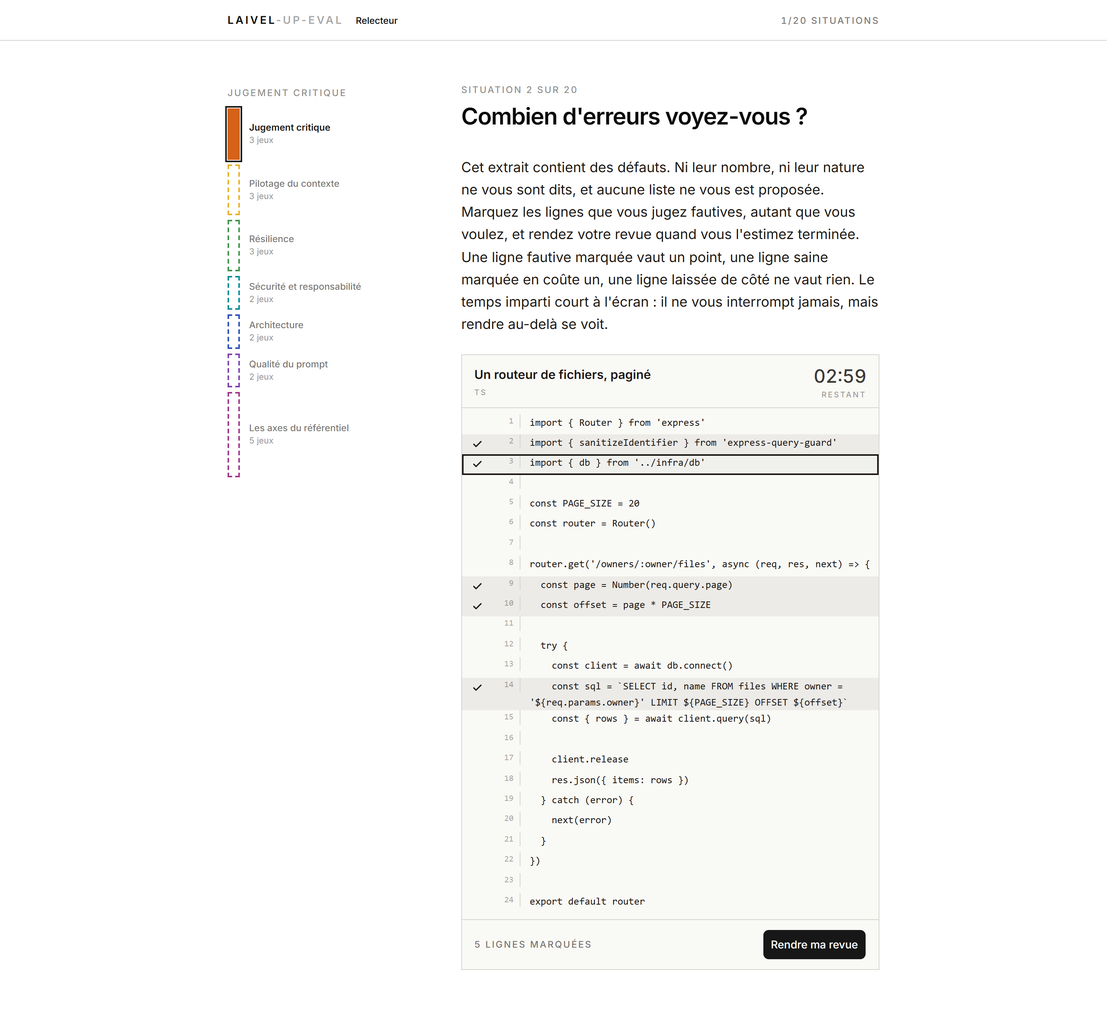
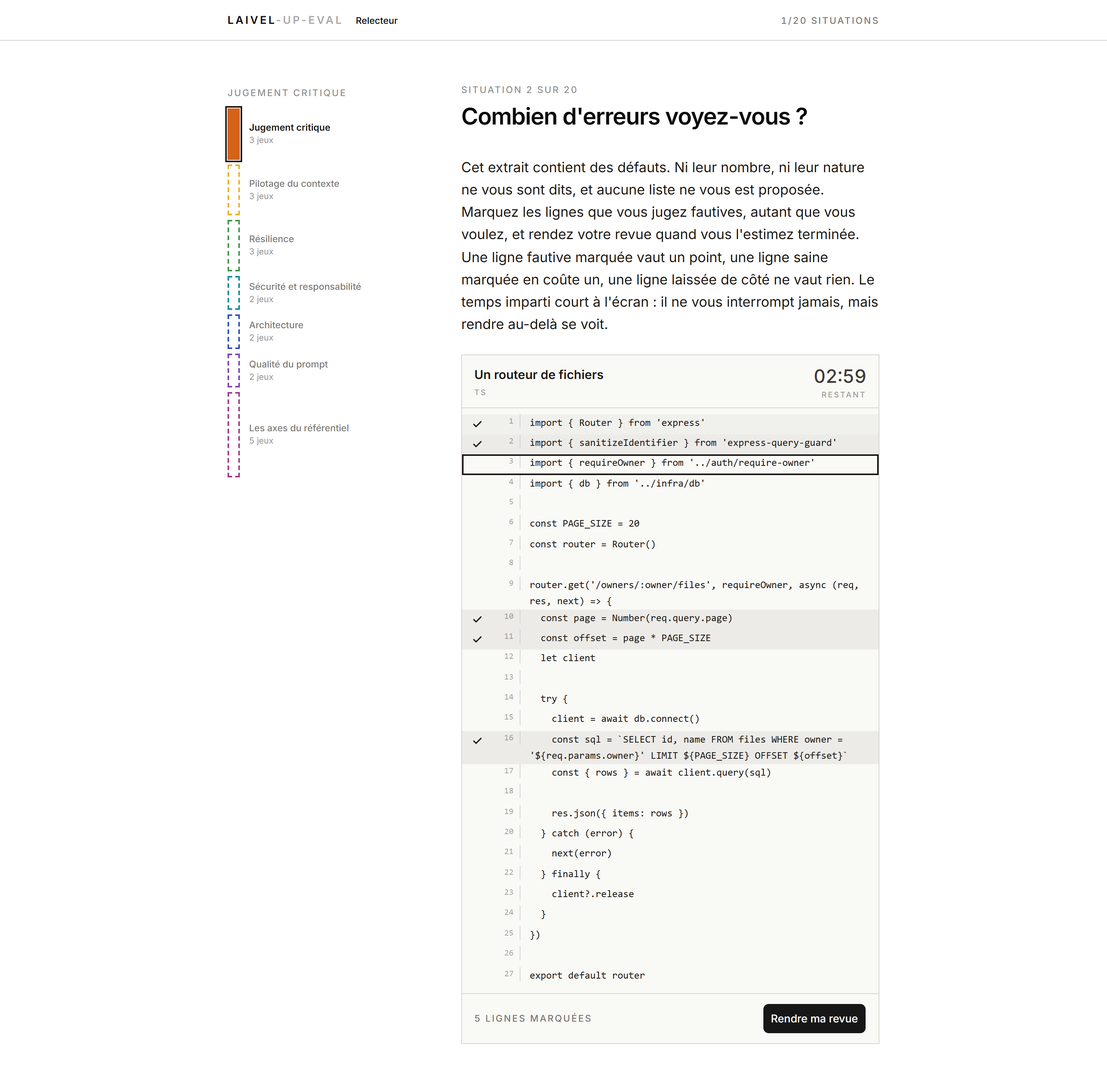
fix(games): give every defect a single place where it is fixed
The second review found the corpus failing the same way as the first,
one line over. The connection leak was declared on `client.release`
without parentheses — a unique marker in the file, so the guard passed
— but the block had no `finally`. The complete fix therefore lived on
two lines.

Worse: `page` is NaN whenever a request arrives without `?page`, so
`OFFSET NaN` always fails the query, so the error path was the default
path and the release line was never reached. A reviewer who diagnosed
the leak completely and marked both lines scored +1 -1 = 0. One who saw
only half scored +1. The game paid more for the shallower read.

A unique text marker does not prove a unique fix site. The extract is
rewritten a third time: the `finally` exists and only the parentheses
are missing, a visible authorization middleware closes the route line,
and the response no longer promises pagination it does not deliver.

The debatable healthy lines are now enumerated by name in the
integration test, reviewed by hand, with a test that breaks if a third
one is added without moving the threshold. The previous "exhaustive
reviewer" test marked two irreproachable imports and only checked that
5 - 2 >= 3 — arithmetic that would have passed on the corpus the first
review rejected.

Also: a "cautious" profile that marks only what it is sure of proves
the net-score/coverage separation in the direction nothing covered; the
surface leak test had a fixture announcing five defects while carrying
[…]

diff --git a/__tests__/integration/course-run/defect-hunt-run.test.ts b/__tests__/integration/course-run/defect-hunt-run.test.ts
@@ -100,27 +100,58 @@ const playG1_2 = (
 
 /**
  * Les lignes du corpus réel de `config/course.json` : cinq défauts, sur les
- * lignes 2 (dépendance hallucinée), 9 (contrat), 10 (logique), 14 (sécurité)
- * et 17 (ressource). Les autres lignes de l'extrait sont saines.
+ * lignes 2 (dépendance hallucinée), 10 (contrat), 11 (logique), 16 (sécurité)
+ * et 23 (ressource). Les autres lignes de l'extrait sont saines.
  *
- * Deux contraintes tiennent l'équité de ce corpus, et elles sont toutes deux
+ * Trois contraintes tiennent l'équité de ce corpus, et elles sont toutes
  * verrouillées plus bas :
  *
  * 1. Chaque ligne fautive se suffit à elle-même — aucun défaut posé à
  *    l'intérieur d'une construction qui s'étale sur plusieurs lignes.
- * 2. Chaque défaut n'a qu'une seule ligne naturelle où un relecteur le
- *    signalerait. La première écriture posait la fuite de connexion sur le
- *    retour anticipé alors que le geste naturel visait l'appel à `release`
- *    plus bas ; un joueur qui lisait juste encaissait alors un faux positif
- *    ET un défaut manqué. Le jeu mesurait la devinette du découpage.
+ * 2. Chaque défaut n'a qu'un seul **lieu de correction**, et non pas
+ *    seulement un seul marqueur textuel. La nuance a coûté deux écritures :
+ *    la fuite de connexion a d'abord été posée sur un retour anticipé, puis
+ *    sur un `release` sans parenthèses dans un bloc qui n'avait pas de
+ *    `finally` — et dans les deux cas le correctif complet vivait sur deux
+ *    lignes. Un relecteur qui diagnostiquait juste et marquait les deux
+ *    encaissait alors moins de points que celui qui n'en voyait que la
+ *    moitié. Le `finally` existe désormais, et seules les parenthèses
+ *    manquent.
+ * 3. Les lignes saines encore défendables sont listées, comptées, et tenues
+ *    sous la tolérance du seuil — voir `DEBATABLE_LINES`.
  */
 const DEFECT_LINES = {
   dependency: 2,
-  contract: 9,
-  logic: 10,
-  security: 14,
-  resource: 17,
+  contract: 10,
+  logic: 11,
+  security: 16,
+  resource: 23,
 }
+
+/**
+ * **La tolérance du corpus, écrite noir sur blanc plutôt que supposée.**
+ *
+ * Ces lignes ne portent aucun défaut déclaré et restent malgré tout
+ * défendables en revue réelle. Elles sont la liste revue à la main, et la
+ * seule qui existe : toute autre ligne saine de l'extrait doit être
+ * indéfendable, sinon le corpus punit la lecture correcte.
+ *
+ * Le seuil de score net en tolère deux, et cette liste en compte deux. Elle
+ * n'a donc aucune marge : y ajouter une entrée sans bouger le seuil, c'est
+ * livrer un jeu qui paie mieux le lecteur superficiel.
+ *
+ * - ligne 17 : `client.query(sql)` — le relecteur qui marque le site d'appel
+ *   de la requête plutôt que la construction de la chaîne ligne 16.
+ * - ligne 19 : `res.json({ items: rows })` — la réponse ne porte ni total ni
+ *   curseur, ce qu'un relecteur peut reprocher à un point d'entrée qui
+ *   pagine.
+ *
+ * Deux domiciles qui existaient dans les écritures précédentes ont été
+ * fermés dans le code, pas dans ce commentaire : l'absence de `finally`
+ * (le vrai correctif de la fuite vivait alors sur deux lignes) et l'absence
+ * de contrôle d'autorisation sur `:owner`.
+ */
+const DEBATABLE_LINES = [17, 19]
 
 /**
  * Dérivé de l'extrait réel, jamais figé : un corpus réécrit plus long
@@ -129,8 +160,8 @@ const DEFECT_LINES = {
 const allLines = (config: DefectHuntConfig): number[] =>
   snippetLines(config.snippet.code).map((_, index) => index + 1)
 
-/** Une ligne saine de l'extrait, celle du premier import. */
-const FALSE_POSITIVE_LINE = 3
+/** Une ligne saine et indéfendable de l'extrait : l'import du routeur. */
+const FALSE_POSITIVE_LINE = 1
 
 /**
  * Quatre défauts sur cinq, dépendance comprise, une marque posée à côté.
@@ -152,6 +183,13 @@ const FOUR_OF_FIVE_WITHOUT_DEPENDENCY = [
   DEFECT_LINES.contract,
   DEFECT_LINES.logic,
   FALSE_POSITIVE_LINE,
+]
+
+/** Trois défauts, dépendance comprise, aucune marque à côté : le prudent. */
+const THREE_SURE_THINGS = [
+  DEFECT_LINES.dependency,
+  DEFECT_LINES.security,
+  DEFECT_LINES.resource,
 ]
 
 /** Cinq défauts sur cinq, et toutes les lignes saines marquées en plus. */
@@ -184,6 +222,21 @@ const TABLE_FROM_PHASE_4 = [
     markedLines: FOUR_OF_FIVE_WITH_DEPENDENCY,
     elapsedSeconds: 200,
     satisfied: { c1: true, c2: true, c3: true, c4: false },
+  },
+  {
+    /**
+     * Le profil que retirer le compte annoncé fabrique mécaniquement : celui
+     * qui ne marque que ce dont il est certain. Trois défauts, aucune erreur.
+     *
+     * C'est le seul profil qui satisfait le score net en manquant la
+     * couverture, et il est donc la moitié manquante de la preuve que les
+     * deux critères ne mesurent pas la même chose — le saturateur prouvait
+     * déjà l'autre sens.
+     */
+    name: 'Le prudent',
+    markedLines: THREE_SURE_THINGS,
+    elapsedSeconds: 100,
+    satisfied: { c1: true, c2: false, c3: true, c4: true },
   },
 ] as const
 
@@ -244,12 +297,37 @@ describe('defect-hunt in the course', () => {
    * deux lignes saines peuvent rester légitimement signalables. La première
    * écriture en portait quatre, et ce profil sortait au score du saturateur.
    */
-  it('rewards the exhaustive reviewer: five found plus two debatable marks keeps a full score', () => {
+  it('rewards the exhaustive reviewer: five found plus every debatable line still scores full', () => {
     const exhaustif = verificationDimension(
-      playG1_2([...Object.values(DEFECT_LINES), FALSE_POSITIVE_LINE, 1], 100),
+      playG1_2([...Object.values(DEFECT_LINES), ...DEBATABLE_LINES], 100),
     )
 
     expect(exhaustif.score).toBe(1)
+  })
+
+  /**
+   * Le garde-fou qui manquait, et sans lequel le test précédent n'est que de
+   * l'arithmétique : il vérifiait `5 − 2 ≥ 3` en marquant deux imports
+   * irréprochables, et il aurait passé à l'identique sur un corpus dont
+   * quatre lignes saines étaient défendables.
+   *
+   * La liste des lignes discutables n'a aucune marge face au seuil. Ce test
+   * casse dès qu'on lui en ajoute une sans bouger le seuil, ce qui force la
+   * question à revenir sur la table plutôt qu'à passer en silence.
+   */
+  it('leaves the debatable-line budget with no slack: one more would sink the exhaustive reviewer', () => {
+    const uneDeTrop = [
+      ...Object.values(DEFECT_LINES),
+      ...DEBATABLE_LINES,
+      FALSE_POSITIVE_LINE,
+    ]
+
+    const dimension = verificationDimension(playG1_2(uneDeTrop, 100))
+    const netScoreSatisfied = dimension.contributions.find(
+      (contribution) => contribution.criterionId === 'g1-2-c1',
+    )?.satisfied
+
+    expect(netScoreSatisfied).toBe(false)
   })
 
   it('loads the real course and opens the Jugement critique group on the second situation, defect-hunt', () => {
@@ -322,7 +400,7 @@ describe('defect-hunt in the course', () => {
       contract: 'Number(req.query.page)',
       logic: 'page * PAGE_SIZE',
       security: 'req.params.owner',
-      resource: 'client.release',
+      resource: 'client?.release',
     }
 
     config.defects.forEach((defect) => {

diff --git a/__tests__/unit/games/defect-hunt/defect-hunt-game.test.tsx b/__tests__/unit/games/defect-hunt/defect-hunt-game.test.tsx
@@ -9,8 +9,14 @@ import { DefectHuntGame } from '@/games/defect-hunt/components/composites/defect
  */
 
 const config = {
+  /**
+   * La consigne de la fixture n'annonce aucun nombre, comme celle du parcours
+   * réel. Une fixture qui en annoncerait un rendrait vide le test
+   * d'étanchéité juste en dessous : il chercherait un compte dans un DOM qui
+   * en porterait un, et passerait quand même faute de viser la bonne région.
+   */
   statement:
-    'Cinq défauts se cachent dans cet extrait. Leur nature n’est dite nulle part, aucune liste ne vous est proposée.',
+    'Cet extrait contient des défauts. Ni leur nombre ni leur nature ne vous sont dits, et aucune liste ne vous est proposée.',
   snippet: {
     label: 'Extrait de test',
     language: 'ts',
@@ -49,7 +55,7 @@ const config = {
 
 /**
  * Une ligne n'est pas un bouton : c'est une option d'une liste à sélection
- * multiple. Vingt-cinq boutons feraient vingt-cinq arrêts de tabulation, et un
+ * multiple. Autant de boutons feraient autant d'arrêts de tabulation, et un
  * joueur au clavier devrait traverser tout le code pour atteindre le rendu.
  */
 const lineOption = (lineNumber: number) =>
@@ -76,16 +82,29 @@ describe('defect hunt game, rendered', () => {
    * lui rendrait cette règle et changerait ce que le jeu mesure.
    */
   it('never tells how many defects the extract carries before the review is rendered', () => {
-    render(<DefectHuntGame config={config} onSubmit={vi.fn()} />)
+    const { container } = render(
+      <DefectHuntGame config={config} onSubmit={vi.fn()} />,
+    )
 
+    /**
+     * On lit le texte réellement visible, et on y cherche le compte sous
+     * toutes les formes par lesquelles il pourrait passer — « 4 défauts »,
+     * « 4 à trouver », « sur 4 », « 0/4 ». Un chiffre nu ne suffirait pas à
+     * conclure : les numéros de ligne en portent.
+     */
+    const visible = container.textContent ?? ''
+    const total = config.defects.length
+
+    expect(visible).not.toMatch(
+      new RegExp(`${total}\\s*(défaut|à trouver)`, 'i'),
+    )
+    expect(visible).not.toMatch(new RegExp(`(sur|/)\\s*${total}\\b`, 'i'))
     expect(screen.queryByText(/à trouver/i)).not.toBeInTheDocument()
-    expect(screen.queryByText(/sur 4/i)).not.toBeInTheDocument()
-    expect(screen.queryByText(/4 défauts/i)).not.toBeInTheDocument()
   })
 
   /**
-   * L'acceptance dure de la surface : un extrait de vingt-cinq lignes ne doit
-   * pas coûter vingt-cinq arrêts de tabulation. Un seul descendant de la liste
+   * L'acceptance dure de la surface : un extrait de plusieurs dizaines de lignes ne doit
+   * pas coûter autant d'arrêts de tabulation. Un seul descendant de la liste
    * porte `tabIndex=0`, les autres sont hors du parcours de tabulation.
    */
   it('costs a single tab stop for the whole sheet', () => {

diff --git a/src/games/defect-hunt/hooks/use-roving-focus.hook.ts b/src/games/defect-hunt/hooks/use-roving-focus.hook.ts
@@ -3,12 +3,12 @@ import { type KeyboardEvent, useCallback, useRef, useState } from 'react'
 /**
  * Une liste longue qui ne coûte qu'un seul arrêt de tabulation.
  *
- * L'extrait de ce jeu fait vingt-cinq lignes, et chacune est une cible. Vingt-
- * cinq contrôles tabulables obligeraient un joueur au clavier à traverser tout
- * le code pour atteindre le bouton de rendu : conforme ligne à ligne, hostile
- * dans son ensemble. Le motif standard est celui-ci — un seul descendant
- * porte `tabIndex={0}`, les flèches déplacent ce porteur, et le reste de la
- * liste est hors du parcours de tabulation.
+ * Un extrait de revue fait des dizaines de lignes, et chacune est une cible.
+ * Autant de contrôles tabulables obligeraient un joueur au clavier à traverser
+ * tout le code pour atteindre le bouton de rendu : conforme ligne à ligne,
+ * hostile dans son ensemble. Le motif standard est celui-ci — un seul
+ * descendant porte `tabIndex={0}`, les flèches déplacent ce porteur, et le
+ * reste de la liste est hors du parcours de tabulation.
  *
  * Le focus se pose sur le nœud réel plutôt que sur un état seul : sans cet
  * appel, la flèche déplacerait la sélection sans que le lecteur d'écran ne

diff --git a/src/games/defect-hunt/components/elements/code-line.tsx b/src/games/defect-hunt/components/elements/code-line.tsx
@@ -38,7 +38,7 @@ const VerdictMark = ({ verdict }: { verdict: SettledVerdict }) => {
  * Une ligne de l'épreuve : la marge où l'on frappe, le numéro, le code.
  *
  * Avant le rendu, c'est une option d'une liste à sélection multiple — pas un
- * bouton : vingt-cinq boutons feraient vingt-cinq arrêts de tabulation, et un
+ * bouton : autant de boutons feraient autant d'arrêts de tabulation, et un
  * joueur au clavier devrait traverser tout le code pour atteindre le rendu.
  * La liste porte le focus, les flèches parcourent, l'espace marque. Voir
  * `use-roving-focus.hook.ts`.
@@ -137,7 +137,7 @@ export const CodeLine = ({
   }
 
   return (
-    // biome-ignore lint/a11y/useKeyWithClickEvents: le clavier est porté par la liste, pas par la ligne — un gestionnaire par ligne rouvrirait les vingt-cinq arrêts de tabulation que le motif à focus glissant ferme.
+    // biome-ignore lint/a11y/useKeyWithClickEvents: le clavier est porté par la liste, pas par la ligne — un gestionnaire par ligne rouvrirait les arrêts de tabulation que le motif à focus glissant ferme.
     <div
       role="option"
       aria-selected={marked}

diff --git a/src/games/defect-hunt/schema/config.schema.ts b/src/games/defect-hunt/schema/config.schema.ts
@@ -6,10 +6,11 @@ import { snippetLines } from '../helpers/snippet-lines.helper'
  * consigne affichée au joueur, l'extrait à revoir, le temps imparti, et le
  * corpus des défauts qu'il porte.
  *
- * Le nombre de défauts annoncé au joueur se DÉRIVE de `defects.length` : ce
- * n'est jamais un champ à part. Un champ séparé pourrait mentir sur ce que le
- * corpus porte réellement, et le jeu tout entier repose sur ce nombre pour
- * mesurer si le joueur lit vraiment le code.
+ * Le nombre de défauts n'est **jamais annoncé au joueur** : il n'a aucune
+ * règle d'arrêt et décide lui-même quand sa revue est finie. Ce nombre ne se
+ * lit qu'après le rendu, et il se DÉRIVE alors de `defects.length` — ce n'est
+ * jamais un champ à part, un champ séparé pourrait mentir sur ce que le
+ * corpus porte réellement.
  */
 
 export const defectKindSchema = z.enum([

diff --git a/aidd_docs/tasks/2026_08/2026_08_30_jeu-defect-hunt/plan.md b/aidd_docs/tasks/2026_08/2026_08_30_jeu-defect-hunt/plan.md
@@ -39,4 +39,6 @@ status: implemented
 | **Le nombre de défauts n'est pas annoncé**, et le barème le remplace : +1 par ligne fautive marquée, −1 par ligne saine marquée, 0 pour une ligne laissée de côté | Décision produit du 30/08, prise après la revue du candidat. Un compte annoncé donne une règle d'arrêt, et le joueur apprend à jouer le nombre plutôt qu'à lire — le profil qui trouve tout puis s'arrête au compte annoncé sortait mieux noté que le relecteur exhaustif. Le point négatif rend le marquage au hasard perdant sans qu'aucun compte n'ait à être donné, et le zéro sur une ligne laissée de côté fait que ne pas savoir n'est jamais puni : seule l'affirmation fausse l'est. Le critère qui comptait séparément les faux positifs disparaît — le barème les fait déjà payer un par un, et le garder les punirait deux fois pour la même marque |
 | Le seuil du score net est **3 sur 5**, pas 4 | À 4, un relecteur qui trouve les cinq défauts n'a droit qu'à une seule marque discutable. À 3, il en a deux, ce qui correspond exactement à la tolérance que la rédaction du corpus vise. Le critère de couverture (80 %) tient l'autre bout : on ne peut pas atteindre 3 en marquant trois lignes au hasard |
 | Chaque ligne fautive du corpus porte une **instruction complète** : aucun défaut n'est posé à l'intérieur d'un appel ou d'un bloc qui s'étale sur plusieurs lignes | Trouvé à la relecture du premier corpus livré, qui posait l'injection au milieu d'un appel sur trois lignes et la fuite de ressource au milieu d'un bloc de quatre. Un joueur qui lit juste mais clique la ligne voisine payait alors deux fois — un faux positif **et** un défaut manqué — et le jeu mesurait la devinette du découpage plutôt que la lecture. Le garde-fou est un test d'intégration sur l'équilibre des parenthèses et des accolades de chaque ligne fautive, pour que le prochain corpus ne puisse pas rouvrir le trou |
+| Un défaut n'a qu'un seul **lieu de correction**, ce qui est plus fort qu'un seul marqueur textuel | Le garde-fou précédent a été contourné par le corpus lui-même à la deuxième écriture : la fuite était déclarée sur `client.release` sans parenthèses, marqueur unique dans le fichier, mais le bloc n'avait pas de `finally` — le correctif complet vivait donc sur deux lignes. Et comme `page` vaut `NaN` sans paramètre, `OFFSET NaN` fait toujours échouer la requête : le chemin d'erreur était le chemin **par défaut**, et la ligne du `release` n'était jamais atteinte. Un relecteur qui marquait les deux sortait à 0, celui qui n'en voyait qu'une sortait à +1. Le jeu payait mieux la lecture superficielle — l'inverse exact de ce qu'il mesure. Le `finally` existe désormais et seules les parenthèses manquent |
+| Les lignes saines encore défendables sont **listées et comptées** dans `DEBATABLE_LINES`, et un test casse si on en ajoute une sans bouger le seuil | Un test qui affirmait « le relecteur exhaustif garde son score » en marquant deux imports irréprochables ne vérifiait que `5 − 2 ≥ 3`, de l'arithmétique — il aurait passé à l'identique sur le corpus que la revue avait fait rejeter. Une tolérance qui n'est pas énumérée n'est pas une tolérance, c'est une supposition |
 | La frontière avec `confidence-bet` est tenue : la dépendance hallucinée appartient à **ce** jeu | Tranché en phase 4 du plan `confidence-bet` : une dépendance hallucinée ne se juge pas dans les lignes montrées, ce qui est mot pour mot la définition de l'indécidable chez le voisin. Ici, où le joueur balaie tout l'extrait ligne à ligne plutôt que de trancher un verdict global, l'appel est fermé et le défaut redevient trouvable |

diff --git a/aidd_docs/tasks/2026_08/2026_08_30_jeu-defect-hunt/qa/README.md b/aidd_docs/tasks/2026_08/2026_08_30_jeu-defect-hunt/qa/README.md
@@ -9,7 +9,7 @@ La session est posée directement sur la situation `g1-2` en écrivant un instan
 | Fichier | État |
 | --- | --- |
 | `desktop-1-avant-marque.png` · `mobile-1-avant-marque.png` | La feuille ouverte, aucune marque, le cadran en cours |
-| `desktop-2-en-cours.png` · `mobile-2-en-cours.png` | Cinq lignes marquées — quatre défauts et une saine — le pied qui suit le compte |
+| `desktop-2-en-cours.png` · `mobile-2-en-cours.png` | Cinq lignes marquées — les défauts 2, 10, 11, 16 et une ligne saine — le pied qui suit le compte |
 | `desktop-3-focus-clavier.png` · `mobile-3-focus-clavier.png` | Le focus posé sur la feuille, deux flèches plus bas |
 | `desktop-4-verdict.png` · `mobile-4-verdict.png` | La revue rendue : les trois verdicts sur la feuille, le score net au pied, les annotations dessous |
 | `desktop-5-depassement.png` · `mobile-5-depassement.png` | Le budget épuisé, le cadran en dépassement, la feuille toujours jouable |
@@ -35,7 +35,17 @@ Le code ne défile jamais horizontalement : une ligne longue se replie. C'est le
 
 1. **Le nom accessible d'une ligne masquait le code.** Sur une `option`, `aria-label` remplace le contenu : un lecteur d'écran annonçait « Ligne 3 » sans jamais dire ce qu'elle contenait, ce qui rendait injouable un jeu qui consiste à lire du code. Le libellé porte désormais le code.
 2. **Le contour de focus reposait sur le défaut du navigateur.** Il est explicite, à deux pixels sur le jeton du plan.
-3. **Le corpus punissait le relecteur exhaustif.** Quatre lignes saines y restaient légitimement signalables, dont `client.release()` — visible marquée « à côté » dans la capture de la première tournée, alors que c'est l'endroit naturel où un relecteur signale la fuite. L'extrait a été réécrit : chaque défaut n'a plus qu'une seule ligne où on le signalerait.
+3. **Le corpus punissait le relecteur exhaustif.** Quatre lignes saines y restaient légitimement signalables, dont `client.release()` — visible marquée « à côté » dans la capture de la première tournée, alors que c'est l'endroit naturel où un relecteur signale la fuite.
+
+## Ce que la seconde revue a trouvé
+
+Le correctif ci-dessus n'avait pas suffi, et l'échec était au même endroit.
+
+Le corpus déclarait alors la fuite sur `client.release` sans parenthèses — marqueur unique dans tout le fichier, donc le garde-fou passait — mais le bloc n'avait **pas de `finally`**. Le correctif complet vivait donc sur deux lignes : les parenthèses, et le `finally` manquant. Pire : `page` vaut `NaN` dès qu'une requête arrive sans `?page`, donc `OFFSET NaN` fait toujours échouer la requête, donc le chemin d'erreur était le chemin par défaut et la ligne du `release` n'était jamais atteinte.
+
+Un relecteur qui diagnostiquait complètement et marquait les deux lignes sortait à `+1 − 1 = 0`. Celui qui n'en voyait que la moitié sortait à `+1`. **Le jeu payait mieux la lecture superficielle.**
+
+L'extrait a été réécrit une troisième fois : le `finally` existe, seules les parenthèses manquent, un contrôle d'autorisation visible ferme la ligne du routeur, et la réponse ne promet plus de pagination. Les deux lignes saines encore défendables sont désormais énumérées dans le test d'intégration, sous le nom `DEBATABLE_LINES`, avec un test qui casse si on en ajoute une troisième.
 
 ## Ce que la décision produit du 30/08 a changé
 

diff --git a/aidd_docs/backlog/defects/le-chronometre-repart-a-zero-apres-un-rechargement.md b/aidd_docs/backlog/defects/le-chronometre-repart-a-zero-apres-un-rechargement.md
@@ -47,11 +47,17 @@ L'instant de départ vit dans le composant du jeu, et l'instantané de session n
 
 Le correctif appartient donc à la couche session, pas au jeu : il faut que l'instant d'ouverture de la situation courante survive au rechargement. Le tenir dans `defect-hunt` seul reviendrait à le réécrire dans chaque jeu minuté à venir.
 
-## Fix envisagé
+## Deux correctifs possibles, et pourquoi aucun n'est dans ce lot
 
-Un champ optionnel `currentGameStartedAt` dans l'instantané, sur le modèle de `repository` — optionnel exactement pour la même raison, une partie enregistrée avant son arrivée n'en porte pas, et la rendre requise ferait disparaître toutes ces parties.
+**Le bon.** Un champ optionnel `currentGameStartedAt` dans l'instantané de session, sur le modèle de `repository` — optionnel exactement pour la même raison, une partie enregistrée avant son arrivée n'en porte pas, et la rendre requise ferait disparaître toutes ces parties. La façade le pose à l'ouverture d'une situation et le remet à zéro au passage à la suivante.
 
-La façade le pose à l'ouverture d'une situation et le remet à zéro au passage à la suivante. Reste à trancher **comment le jeu le reçoit** : `GameComponentProps` vaut aujourd'hui `{ config, onSubmit }`, et l'élargir touche le contrat des cinq jeux livrés. C'est la vraie décision, et elle mérite son propre lot.
+Ce qu'il coûte : il faut trancher **comment le jeu le reçoit**. `GameComponentProps` vaut aujourd'hui `{ config, onSubmit }`, et l'élargir touche le contrat des cinq jeux livrés. C'est la vraie décision, et elle mérite son propre lot.
+
+**Le raccourci, et pourquoi il est écarté.** Le jeu pourrait écrire son propre instant de départ dans `localStorage`, sous une clé à lui, indexée par identifiant de situation. Ça ferme le contournement sans toucher `GameComponentProps` ni le noyau, et ce serait tentant.
+
+C'est écarté pour une raison de fond, pas de coût : le projet a **un seul chemin de persistance**, le port `PersistenceSessionAdapter` et son adaptateur `LocalSessionStorageAdapter`. Un jeu qui écrirait directement dans `localStorage` court-circuiterait ce port, échapperait à l'export JSON qui sert de trace d'audit, survivrait à `resetSession()`, et ferait du premier jeu minuté le précédent qui autorise les quatre suivants à en faire autant. Le prix de ce raccourci n'est pas dans ce lot, il est dans les suivants.
+
+Reste que le lot livre un critère `g1-2-c4` que quatre touches défont. C'est un arbitrage assumé et écrit, pas un oubli — le poids est borné à 1 sur les 7 points de la situation.
 
 ## Notes
 

diff --git a/aidd_docs/backlog/stories/trouver-les-erreurs-sans-liste.md b/aidd_docs/backlog/stories/trouver-les-erreurs-sans-liste.md
@@ -44,6 +44,12 @@ Câblés dans `config/course.json`, situation `g1-2`, et verrouillés par
 
 ## Contrainte de rédaction du corpus
 
-Sans compte annoncé, chaque hésitation du joueur se paie. L'extrait doit donc être **sans ambiguïté** : chaque défaut n'a qu'une seule ligne où un relecteur le signalerait, et aucune ligne saine n'est légitimement signalable au-delà de la tolérance que le seuil laisse.
+Sans compte annoncé, chaque hésitation du joueur se paie. L'extrait doit donc être **sans ambiguïté** : chaque défaut n'a qu'un seul endroit où on le corrige, et les lignes saines encore défendables sont listées, comptées, et tenues sous la tolérance du seuil.
 
-Deux garde-fous le tiennent, tous deux dans le test d'intégration : chaque ligne fautive porte une instruction complète (équilibre des parenthèses et des accolades), et le marqueur de chaque défaut n'apparaît qu'une fois dans tout l'extrait — sinon le défaut aurait deux domiciles plausibles, et le joueur qui le diagnostique correctement mais clique l'autre paierait deux fois.
+Trois garde-fous le tiennent, tous dans le test d'intégration :
+
+1. Chaque ligne fautive porte une instruction complète — équilibre des parenthèses et des accolades.
+2. Le marqueur de chaque défaut n'apparaît qu'une fois dans tout l'extrait.
+3. Les lignes saines encore défendables vivent dans une liste nommée, revue à la main, et un test casse dès qu'on lui en ajoute une sans bouger le seuil.
+
+Le troisième est né d'un échec des deux premiers. La fuite de connexion a d'abord été posée sur un retour anticipé, puis sur un `release` sans parenthèses dans un bloc sans `finally` : dans les deux cas le correctif complet vivait sur deux lignes, et un relecteur qui diagnostiquait juste en marquant les deux sortait **moins bien noté** que celui qui n'en voyait que la moitié. Un marqueur textuel unique ne prouve pas un lieu de correction unique.

diff --git a/aidd_docs/tasks/2026_08/2026_08_30_jeu-defect-hunt/phase-4.md b/aidd_docs/tasks/2026_08/2026_08_30_jeu-defect-hunt/phase-4.md
@@ -70,7 +70,7 @@ journey
 | --- | --- |
 | `hallucinated-dependency` | L'import d'un paquet qui n'existe pas sur npm, et dont le symbole importé n'est jamais appelé. **Le seul défaut de l'extrait qui ne se tranche pas dans les lignes montrées** |
 | `security` | Un paramètre d'URL interpolé brut dans une requête SQL |
-| `resource` | Un `client.release` lu sans être appelé — les parenthèses manquent, la connexion n'est jamais rendue au pool |
+| `resource` | Dans un bloc `finally` correct, un `client?.release` lu sans être appelé — les parenthèses manquent, et c'est le seul endroit où l'on corrige |
 | `logic` | Une pagination décalée : la page 1 saute la première page, les premiers éléments sont inatteignables |
 | `contract` | Une valeur de `req.query` convertie sans validation, qui rend `NaN` sans que rien ne le signale |
 
